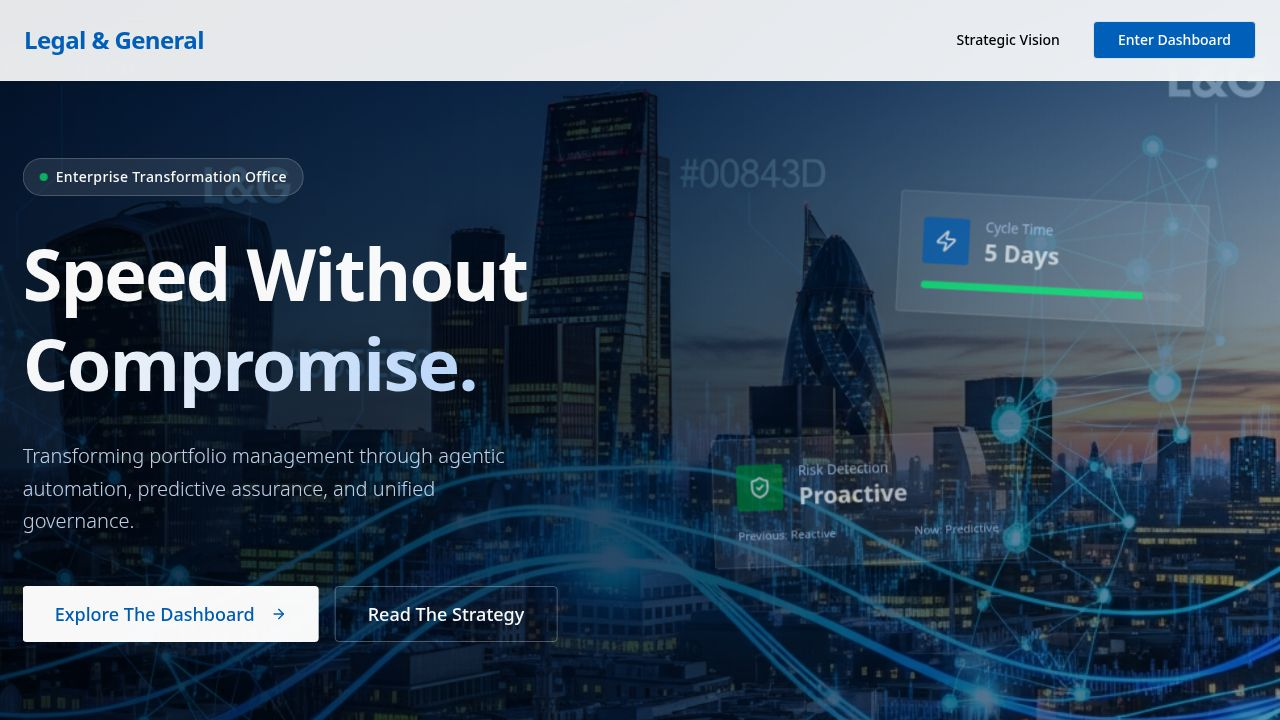
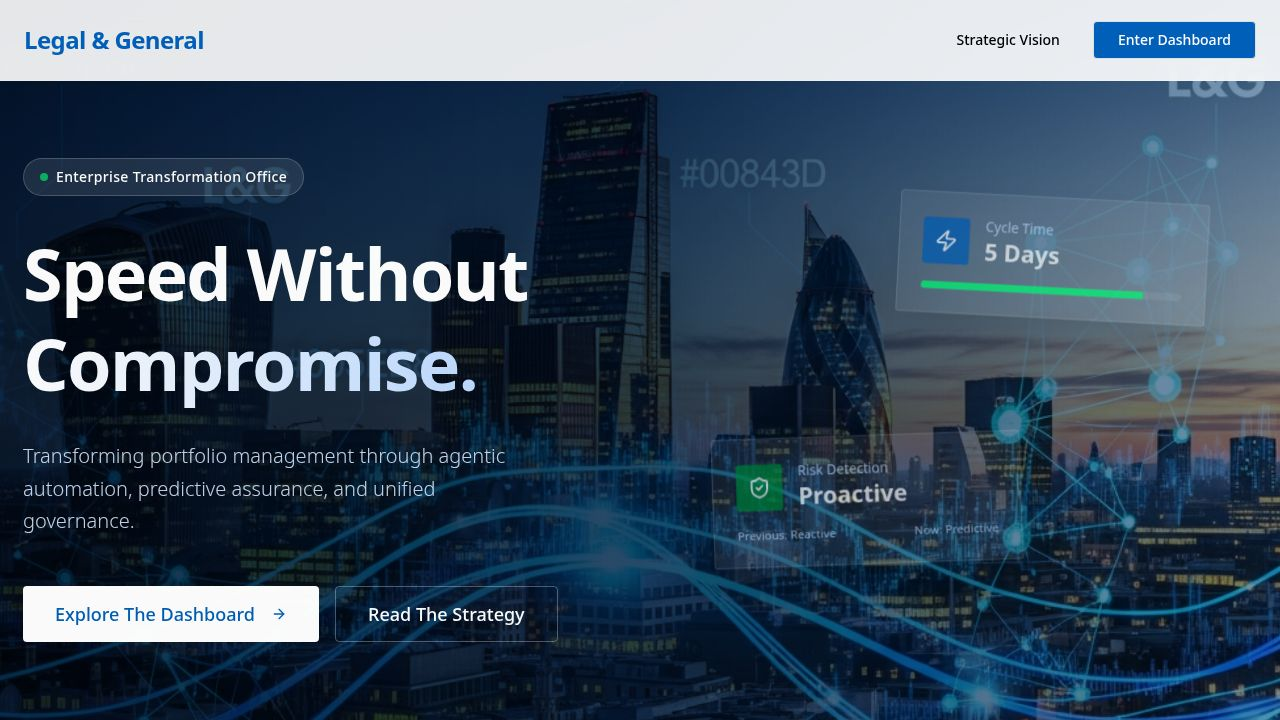
Update navigation to use browser history for back button
Modify the value-proposition page to use `window.history.back()` for navigation instead of a hardcoded link to the home page.

Replit-Commit-Author: Agent
Replit-Commit-Session-Id: 16e54c30-06b1-48ac-ac0f-1a9b028f425e
Replit-Commit-Checkpoint-Type: full_checkpoint
Replit-Commit-Event-Id: ee497784-2b2e-4002-af5b-b7fd1427d670
Replit-Commit-Screenshot-Url: https://storage.googleapis.com/screenshot-production-us-central1/c8eb5646-caff-48fb-ba52-c6fa8a2c2cc4/16e54c30-06b1-48ac-ac0f-1a9b028f425e/JdnOg0B
Replit-Helium-Checkpoint-Created: true

diff --git a/client/src/pages/value-proposition.tsx b/client/src/pages/value-proposition.tsx
@@ -1,19 +1,27 @@
 import { motion } from "framer-motion";
 import { ArrowLeft, FileText, CheckCircle2, TrendingUp, Users, Shield } from "lucide-react";
 import { Button } from "@/components/ui/button";
-import { Link } from "wouter";
+import { Link, useLocation } from "wouter";
 
 export default function ValueProposition() {
+  const [, navigate] = useLocation();
+  
+  const handleBack = () => {
+    if (window.history.length > 1) {
+      window.history.back();
+    } else {
+      navigate("/");
+    }
+  };
+
   return (
     <div className="min-h-screen bg-background font-sans text-foreground">
       {/* Navigation */}
       <header className="h-16 border-b border-border bg-white flex items-center px-8 justify-between sticky top-0 z-50">
         <div className="flex items-center gap-4">
-          <Link href="/">
-            <Button variant="ghost" size="sm" className="gap-2">
-              <ArrowLeft className="h-4 w-4" /> Back to Home
-            </Button>
-          </Link>
+          <Button variant="ghost" size="sm" className="gap-2" onClick={handleBack} data-testid="button-back">
+            <ArrowLeft className="h-4 w-4" /> Back
+          </Button>
           <div className="h-6 w-px bg-border mx-2" />
           <div className="font-bold text-lg text-[hsl(209,100%,36%)]">VRO Strategic Value</div>
         </div>